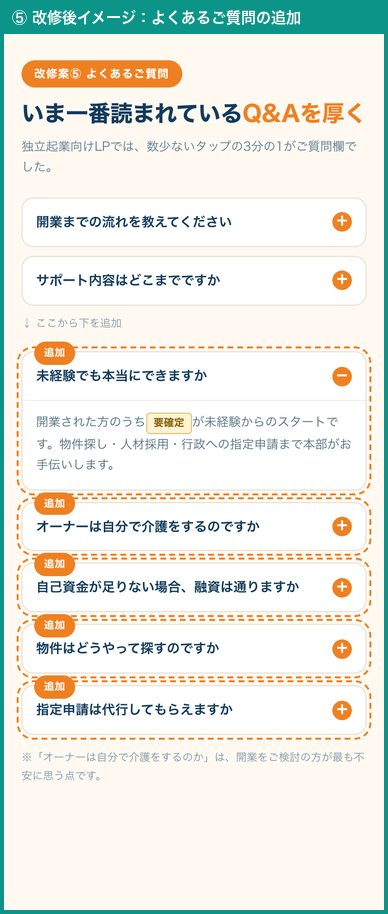
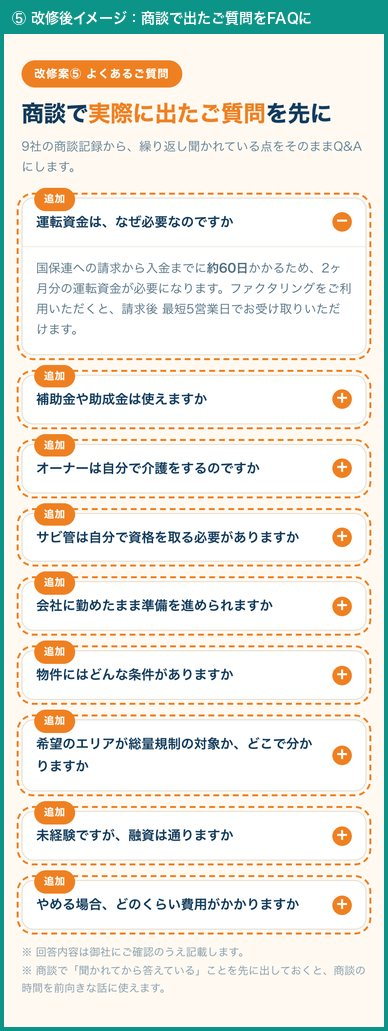
OWL: 商談記録9社と事業ガイドvol.19を反映（費用内訳の正本・FAQ9問・資金ギャップ）

Changed region(s): [[0.0, 0.0, 0.9897, 0.9803], [0.866, 0.919, 0.9278, 0.9497], [0.7423, 0.919, 0.7732, 0.9497]]

diff --git a/owl/lp_kaishu_20260824/index.html b/owl/lp_kaishu_20260824/index.html
@@ -78,13 +78,16 @@ footer{margin-top:36px;padding-top:14px;border-top:1px solid var(--line);font-si
 .ba .t{font-size:11.5px;font-weight:700;margin-bottom:5px;letter-spacing:.04em}
 .ba .b4 .t{color:#8a3410}.ba .af .t{color:#0b5f5a}
 @media(max-width:520px){.ba{grid-template-columns:1fr}.ba .ar{transform:rotate(90deg);height:18px}}
-@media(max-width:430px){h1{font-size:18px}.wrap{padding:19px 13px 55px}}
+@media(max-width:430px){h1{font-size:18px}.wrap{padding:19px 13px 55px}
+  th{white-space:normal}
+  table{table-layout:fixed}
+  td,th{word-break:break-word;overflow-wrap:anywhere}}
 </style></head><body>
 <div class="wrap">
 
 <header>
   <h1>OWL｜ランディングページ改修のご提案</h1>
-  <div class="sub">2026年8月24日／株式会社斗　　根拠：Microsoft Clarity 2026-08-23（スマートフォン・実測）＋ 現行LP3本の画面実査<br>対象ページ：<a href="https://owl-fukushi.net/lp_zero-plan-g_v2/" target="_blank" rel="noopener">0円プランLP</a>／<a href="https://owl-fukushi.net/202607dokuritsu/" target="_blank" rel="noopener">独立起業向けLP</a>／<a href="https://owl-fukushi.net/202607dokuritsu300/" target="_blank" rel="noopener">同 300万円版</a></div>
+  <div class="sub">2026年8月24日／株式会社斗　　根拠：Microsoft Clarity 2026-08-23（スマートフォン・実測）／ 現行LP3本の画面実査 ／ <b>商談記録9社10商談（2026/7/11）</b> ／ <b>GH BUSINESS GUIDE vol.19（0円プラン）</b><br>対象ページ：<a href="https://owl-fukushi.net/lp_zero-plan-g_v2/" target="_blank" rel="noopener">0円プランLP</a>／<a href="https://owl-fukushi.net/202607dokuritsu/" target="_blank" rel="noopener">独立起業向けLP</a>／<a href="https://owl-fukushi.net/202607dokuritsu300/" target="_blank" rel="noopener">同 300万円版</a></div>
 </header>
 
 <div class="top">
@@ -135,6 +138,48 @@ footer{margin-top:36px;padding-top:14px;border-top:1px solid var(--line);font-si
 <p class="note">オレンジの枠が、今回ご提案する変更箇所です。番号は下の①〜⑤に対応しています。</p>
 
 <!-- ===== 改修案 ===== -->
+<span class="day">商談記録から</span>
+<h2>9社の商談を読み直して分かったこと</h2>
+<p>いただいた商談記録（9社10商談）と事業ガイド vol.19 を読み、<b>LPで先に解消できることがないか</b>を探しました。</p>
+
+<div class="box" style="border-left:4px solid var(--red)">
+<div class="h" style="color:#C0392B">9社のうち4社が、資金のところで止まっていました</div>
+<p>「加盟金0円」でお問い合わせいただいた方が、商談の中で総額をお聞きになって温度が下がる、という同じ形が繰り返し出ています。</p>
+<table>
+<tr><th>いま LPに書かれている数字</th><th>事業ガイド vol.19 の数字</th></tr>
+<tr><td>自己資金の目安<br><b style="font-size:15px">約230〜560万円</b></td>
+    <td>0円プラン（3棟・12居室）の<br>初期投資金額の目安<br><b style="font-size:15px;color:#C0392B">600〜800万円</b><span class="note" style="margin:0">（運転資金・プラン金額を含む）</span></td></tr>
+</table>
+<div class="note"><b>230万円は「1棟あたりの開設費用（約230万円）」の数字と一致します。</b>これが自己資金の目安として載っているため、実際に必要な額との差が生まれている可能性があります。<br>
+→ 改修案①で<b>内訳と総額を先に出す</b>ことで、商談前に期待値を揃えられます。</div>
+</div>
+
+<div class="box">
+<div class="h">温度感の高い方には、共通点がありました</div>
+<p>上位の方はいずれも<b>福祉・医療の現役実務者、または当事者のご家族</b>でした（看護師・特別支援学校の教員・サービス管理責任者の実務経験者・重度障害のお子さんをお持ちの方）。</p>
+<div class="note">→ LPの見せ方も、この層に向けて「実務経験をどう活かせるか」を厚くする余地があります。改修案⑤のご質問にも反映しました。</div>
+</div>
+
+<div class="box">
+<div class="h">商談で繰り返し聞かれていたこと</div>
+<p>これらは<b>LPに先に書いておけるもの</b>です。改修案⑤のFAQに入れました。</p>
+<table>
+<tr><td>運転資金はなぜ必要か</td><td class="note" style="border:0;padding:7px 8px">国保連への請求から入金まで約60日</td></tr>
+<tr><td>補助金・助成金は使えるか</td><td class="note" style="border:0;padding:7px 8px">小規模GHは現在なし（商談で毎回訂正されている）</td></tr>
+<tr><td>サビ管は自分で取る必要があるか</td><td class="note" style="border:0;padding:7px 8px">非常勤で可・介護経験は不要</td></tr>
+<tr><td>勤めたまま準備できるか</td><td class="note" style="border:0;padding:7px 8px">副業規定を気にされる方が複数</td></tr>
+<tr><td>物件の条件</td><td class="note" style="border:0;padding:7px 8px">築年数・市街化調整区域・大家様の許諾・居室面積・消防設備</td></tr>
+<tr><td>総量規制の対象エリアか</td><td class="note" style="border:0;padding:7px 8px">エリアを変えて解決した例あり</td></tr>
+<tr><td>未経験でも融資は通るか</td><td class="note" style="border:0;padding:7px 8px">未経験の方の共通の不安</td></tr>
+<tr><td>やめる場合の費用</td><td class="note" style="border:0;padding:7px 8px">原状回復の費用をお尋ねになった方あり</td></tr>
+</table>
+</div>
+
+<div class="box">
+<div class="h">1点、ご相談したいこと</div>
+<div class="note">商談では<b>「棟数」</b>（1棟目・2棟目…）で収益をご説明されていますが、<b>現在のLPは「居室数」</b>（8〜10居室・12〜14居室）で書かれています。事業ガイドも棟数表記です。<b>LPを棟数に揃えるかどうか</b>をご相談させてください。</div>
+</div>
+
 <span class="day o">ご提案</span>
 <h2>触られている場所を「もっと詳しく」に変えます</h2>
 <p>新しい訴求を足すのではなく、<b>すでにお客様が触れている場所を深掘りする</b>方針です。写真はそのまま残し、<b>見出し・本文・数字・表だけを文字にして、開いて読める形</b>にします。右側は<b>作りたいものの雰囲気</b>で、デザインは現行LPのトーンに合わせます。</p>
@@ -148,10 +193,11 @@ footer{margin-top:36px;padding-top:14px;border-top:1px solid var(--line);font-si
   </div>
   <ul>
     <li><b>各プランのカードを開けるようにします</b>（いまは押しても何も起きません）</li>
-    <li>開くと出る中身：<b>入居率別の収支</b>／<b>人件費と人員配置基準</b>／<b>黒字化までの期間</b> <span class="ph">数字は要確定</span></li>
+    <li>開くと出る中身は<b>事業ガイド vol.19 の数字</b>で書けます — 0円プラン（3棟12居室）年間売上予測 5,214万円／年間営業利益予測 989万円／<b>投資回収期間 1年〜1年半</b>／サポート費 月16.5万円（税込・2棟目以降 +5.5万円）</li>
+    <li>加えて<b>入居率別の収支</b>／<b>人件費と人員配置</b>／<b>1棟目と2棟目で利益がどう変わるか</b> <span class="ph">こちらは要ご確認</span></li>
     <li>満室前提の数字だけを見せない形にします（後の不信を防ぐため）</li>
   </ul>
-  <div class="note">一番押されているのが「人気プラン 12〜14居室 約1,200万円」です。<b>ここが最も知りたがられている</b>と読めます。「売上の9割が国の給付金」はすでに上部に掲載済みのため、ここでは各プランの数字に落とし込みます。</div>
+  <div class="note">一番押されているのが「人気プラン 12〜14居室 約1,200万円」です。<b>ここが最も知りたがられている</b>と読めます。商談で「2年ぐらいで回収できると安心できる」とおっしゃった方がいました。<b>回収期間はガイドに1年〜1年半と明記されているので、LPに出せます。</b></div>
 </div>
 <div class="fix">
   <div class="ttl">① 費用のセクションに「内訳」を足す</div>
@@ -161,12 +207,12 @@ footer{margin-top:36px;padding-top:14px;border-top:1px solid var(--line);font-si
     <figure><img src="img/a1.jpg" alt="改修後イメージ"><figcaption>こう変えます（イメージ）</figcaption></figure>
   </div>
   <ul>
-    <li>「加盟金0円」「自己資金の目安 約230〜560万円」「融資のご相談も」という<b>今の構成はそのまま活かします</b></li>
-    <li>足すのは<b>内訳</b>です。<b>すでに独立起業向けLPに、そのままの形があります</b> — 物件取得費（エリア別 ¥180〜500万）／内装費（居室数別 ¥100〜180万）／総投下資金の目安（¥370〜1,200万）</li>
-    <li>これを0円プランLPにも展開すれば、<b>新規に作らずに済みます</b></li>
-    <li>そのうえで<b>「自己資金いくら＋融資いくら」</b>が一目で分かる形にします</li>
+    <li><b>事業ガイド vol.19 の数字をそのまま載せます</b> — 1棟あたりの開設費用 約230万円（物件取得費85万／内装工事35万／消防設備60万／一般備品45万／事務機器5万）</li>
+    <li>そこに<b>運転資金</b>を足します。<b>国保連への請求から入金まで約60日</b>かかるため2ヶ月分が必要、という説明もあわせて書きます（ファクタリングで最短5営業日というご案内も）</li>
+    <li>最後に<b>0円プランの初期投資金額の目安「600〜800万円」</b>を提示します</li>
+    <li>「加盟金0円」「融資のご相談も」という<b>今の見せ方はそのまま活かします</b></li>
   </ul>
-  <div class="note"><b>ご確認いただきたい点：</b>自己資金の目安が、0円プランLPは「約230〜560万円」、独立起業向けLPは「300万円以上」と2本で異なっています。どちらを正としてよいでしょうか。</div>
+  <div class="note"><b>ご確認いただきたい点：</b>自己資金の目安が、0円プランLPは「約230〜560万円」、独立起業向けLPは「300万円以上」、事業ガイドは「600〜800万円」と3つの数字があります。<b>LPに載せる数字を1つに決めさせてください。</b></div>
 </div>
 <div class="fix" style="border:2px solid var(--orange)">
   <div class="ttl">③ WEB説明会（Zoom）をページ本体に出す　<span class="tag new">新設</span></div>
@@ -198,12 +244,12 @@ footer{margin-top:36px;padding-top:14px;border-top:1px solid var(--line);font-si
 </div>
 <div class="fix">
   <div class="ttl">⑤ よくあるご質問を増やす（独立起業向けLP）</div>
-  <div class="meta">8/23：独立起業向けLPの数少ないタップのうち、2回（33%）がご質問欄</div>
+  <div class="meta">8/23：独立起業向けLPのタップの33%がご質問欄　／　追加9問は商談記録から</div>
   <div class="pair">
     <figure><img src="img/dokuritsu_5.jpg" alt="現状"><figcaption>いまの画面</figcaption></figure>
     <figure><img src="img/a5.jpg" alt="改修後イメージ"><figcaption>こう変えます（イメージ）</figcaption></figure>
   </div>
-  <div class="note">数少ない接触の3分の1がご質問欄です。<b>「まだ疑問が残っている」サイン</b>と見ています。<br>とくに<b>「オーナーは自分で介護をするのですか」</b>は、開業をご検討の方が最も不安に思う点です。</div>
+  <div class="note">数少ない接触の3分の1がご質問欄です。<b>「まだ疑問が残っている」サイン</b>と見ています。<br>追加する9問は<b>商談記録で実際に聞かれていたもの</b>から選びました。商談で毎回説明されていることをLPに先に出しておけば、<b>商談の時間を前向きな話に使えます。</b>回答内容は御社にご確認のうえ記載します。</div>
 </div>
 
 <!-- ===== 確認事項 ===== -->
@@ -213,11 +259,14 @@ footer{margin-top:36px;padding-top:14px;border-top:1px solid var(--line);font-si
 <table>
 <tr><th>ご確認したいこと</th><th>現状</th></tr>
 <tr><td><b>WEB説明会で当日お話しする内容</b>・所要時間・定員・開催頻度</td><td>ヒアリング中</td></tr>
-<tr><td><b>自己資金の目安</b></td><td>0円プランLP「約230〜560万円」／独立起業向けLP「300万円以上」で異なります</td></tr>
-<tr><td><b>未経験の比率</b></td><td>LP上部のバッジは「95%」、同じ独立起業向けLPの下部は「85%」、FAQは「約6割」と3つの数字があります</td></tr>
-<tr><td><b>開設実績の件数</b></td><td>「400件」「180社」「4社」の3種類が出ています。<b>独立起業向けLPでは、上部のバッジが「400件」・下部のセクションが「180社」と同じページ内で異なります</b></td></tr>
-<tr><td>初期費用の内訳（各項目の金額）</td><td>未取得</td></tr>
+<tr><td><b>自己資金の目安</b>（LPに載せる数字を1つに）</td><td>0円プランLP「約230〜560万円」／独立起業向けLP「300万円以上」／<b>事業ガイド「600〜800万円」</b>の3つ</td></tr>
+<tr><td><b>未経験の比率</b></td><td>LP上部のバッジは「95%」、同じ独立起業向けLPの下部は「85%」、FAQは「約6割」と3つ。<b>事業ガイドには記載が見当たりません</b></td></tr>
+<tr><td><b>開設実績の件数</b></td><td>「400件」「180社」「4社」の3種類。<b>独立起業向けLPでは、上部のバッジが「400件」・下部のセクションが「180社」と同じページ内で異なります</b></td></tr>
+<tr><td>給付費が売上に占める割合</td><td>0円プランLPは「9割」、独立起業向けLPは「85%」、事業ガイドは「大半」と表現が分かれています</td></tr>
+<tr><td>収益の見せ方を<b>棟数</b>に揃えるか</td><td>商談とガイドは棟数、LPは居室数</td></tr>
+<tr><td>FAQ9問の回答内容</td><td>質問は商談記録から抽出済み。回答は要ご確認</td></tr>
 </table>
+<div class="note" style="margin-top:12px"><b>解決したもの：</b>初期費用の内訳は、事業ガイド vol.19 に「1棟あたり約230万円（物件取得費85万／内装工事35万／消防設備60万／一般備品45万／事務機器5万）」の記載があったため、そのまま使えます。</div>
 <div class="note">実績や収益の表示は景品表示法に関わります。<b>こちらの推測で数字を埋めることはいたしません。</b>決まるまでは現在の表記のままにします。</div>
 </div>
 
